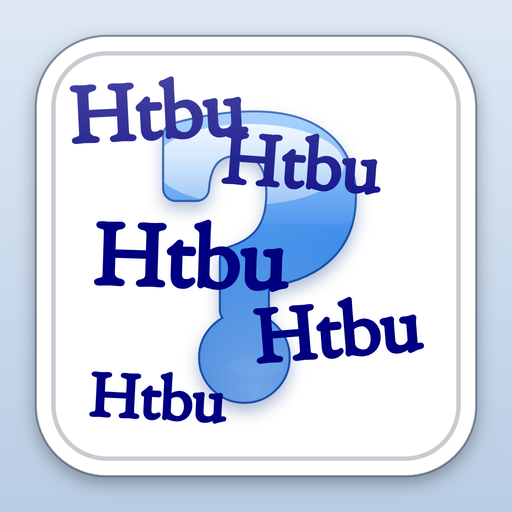
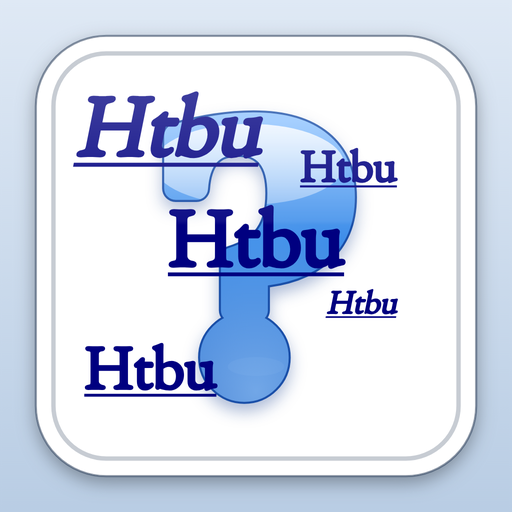
圖標字樣改成網頁連結散落的感覺：不旋轉、大小差很多、部分斜體、加底線
Claude-Session: https://claude.ai/code/session_01CvYpPQnMtBqMma8WMqr6Vg

Changed region(s): [[0.1875, 0.4062, 0.8438, 0.7188], [0.125, 0.125, 0.7812, 0.4062], [0.1562, 0.6562, 0.4375, 0.8438]]

diff --git a/tools/icon.html b/tools/icon.html
@@ -24,10 +24,10 @@ o.beginPath();o.ellipse(S/2,qb-(qb-qt)*.09,qs*.08,(qb-qt)*.035,0,0,Math.PI*2);o.
 const rg=o.createRadialGradient(S/2,qb,0,S/2,qb,qs*.5);rg.addColorStop(0,'rgba(170,215,255,.6)');rg.addColorStop(1,'rgba(170,215,255,0)');o.fillStyle=rg;o.fillRect(0,0,S,S);
 c.save();c.shadowColor='rgba(20,60,140,.35)';c.shadowBlur=S*.03;c.shadowOffsetY=S*.015;c.lineJoin='round';c.lineWidth=S*.053;c.strokeStyle='#1a4fa8';c.strokeText('?',S/2,qy);c.restore();c.drawImage(off,0,0);
 
-/* Htbu_：Win95 預設主題色②，像參考圖一樣錯開疊在方形裡 */
+/* Htbu：Win95 預設主題色②；參考網頁連結散落的感覺——不旋轉、大小差很多、有的斜體、底線，有幾組擠在一起交疊 */
 c.font=`100px TX`;c.textAlign='left';const tw=c.measureText('Htbu').width;c.fillStyle=c.strokeStyle='#000080';c.lineJoin='round';
-/* Satsuki（Win7 字體）加粗：同色描邊；五組大小、位置、角度都不一樣，有些交疊 */
-[[.08,.24,.40,-.05],[.42,.33,.36,.07],[.13,.56,.44,.03],[.50,.74,.38,-.08],[.12,.86,.31,.05]].forEach(([x,y,w,r])=>{const f=100*W*w/tw;c.save();c.translate(M+W*x,M+W*y);c.rotate(r);c.font=`${f}px TX`;c.lineWidth=f*.06;c.strokeText('Htbu',0,0);c.fillText('Htbu',0,0);c.restore()});
+/* [x, 基線 y, 字寬（方框比例）, 斜體] */
+[[.09,.27,.42,1],[.60,.33,.22,0],[.30,.52,.40,0],[.66,.63,.16,1],[.11,.80,.30,0]].forEach(([x,y,w,it])=>{const f=100*W*w/tw;c.save();c.translate(M+W*x,M+W*y);if(it)c.transform(1,0,-.2,1,0,0);c.font=`${f}px TX`;c.lineWidth=f*.06;c.strokeText('Htbu',0,0);c.fillText('Htbu',0,0);c.fillRect(0,f*.1,W*w,Math.max(2,f*.05));c.restore()});
 c.restore();
 /* 頭貼外框：上半亮面＋白色半透明內框＋細深邊（比照 html.w7 .av） */
 c.save();rr(M,M,W,W,R);c.clip();

diff --git a/sw.js b/sw.js
@@ -1,5 +1,5 @@
 // 更新程式後，把下面的版本號加 1，手機才會抓到新版
-const C = 'nyear-v252';
+const C = 'nyear-v253';
 const FILES = ['./', './index.html', './fonts.css', './manifest.webmanifest', './icon-192.png', './icon-512.png', './apple-touch-icon.png'];
 // 字體切成小份（fonts/）：先備好 Win95 字體的第一份（英數標點＋介面文字），其他用到時才下載
 const FONTS = ['./fonts/c00.ttf'];
